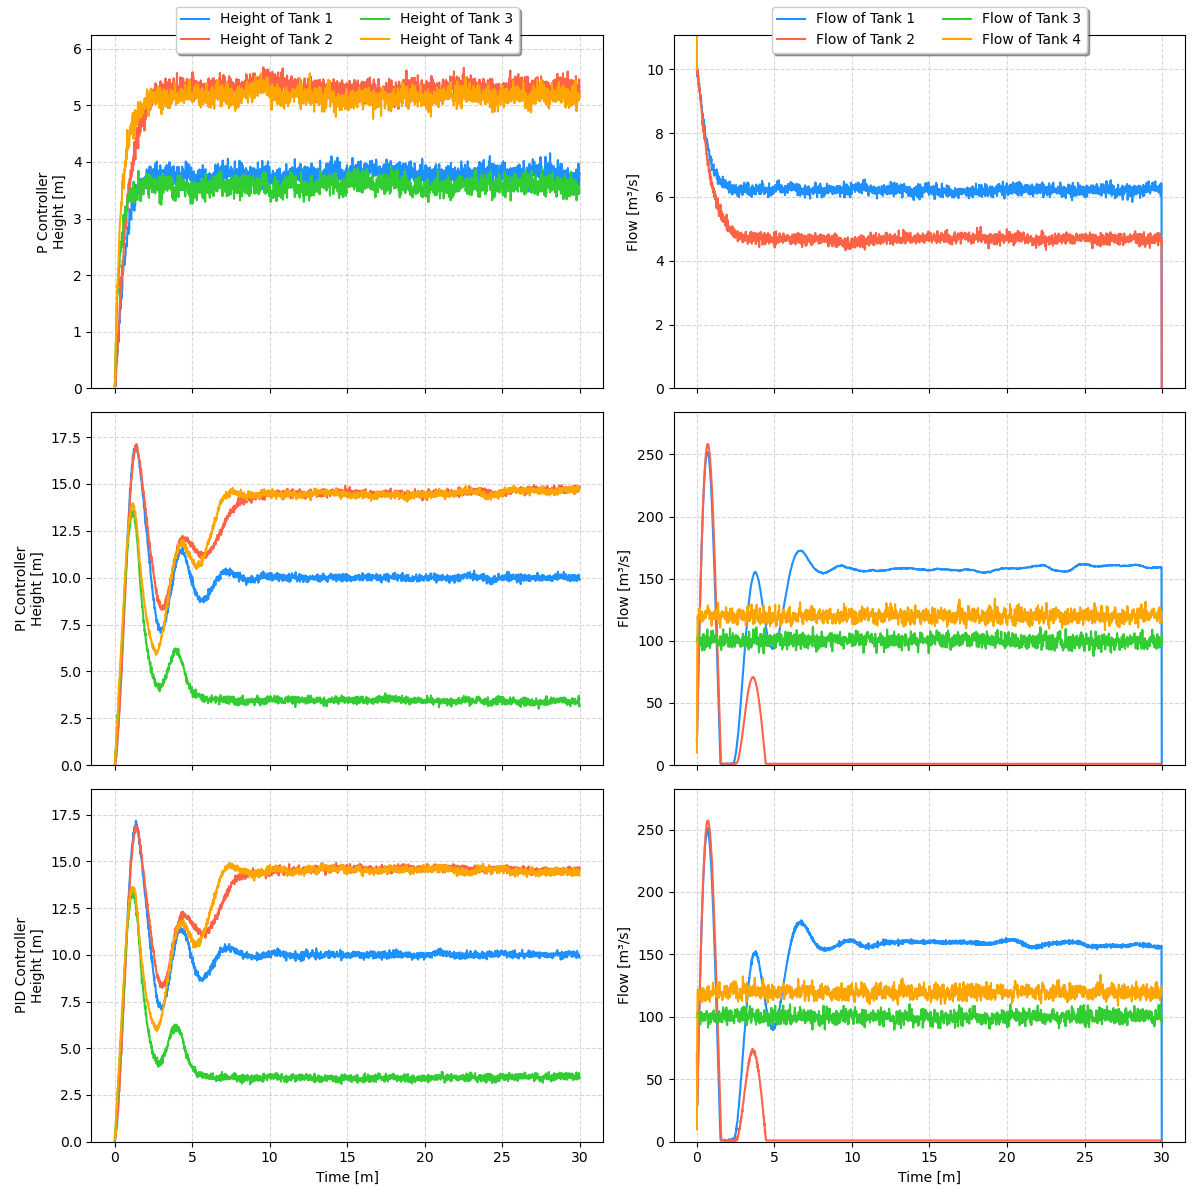
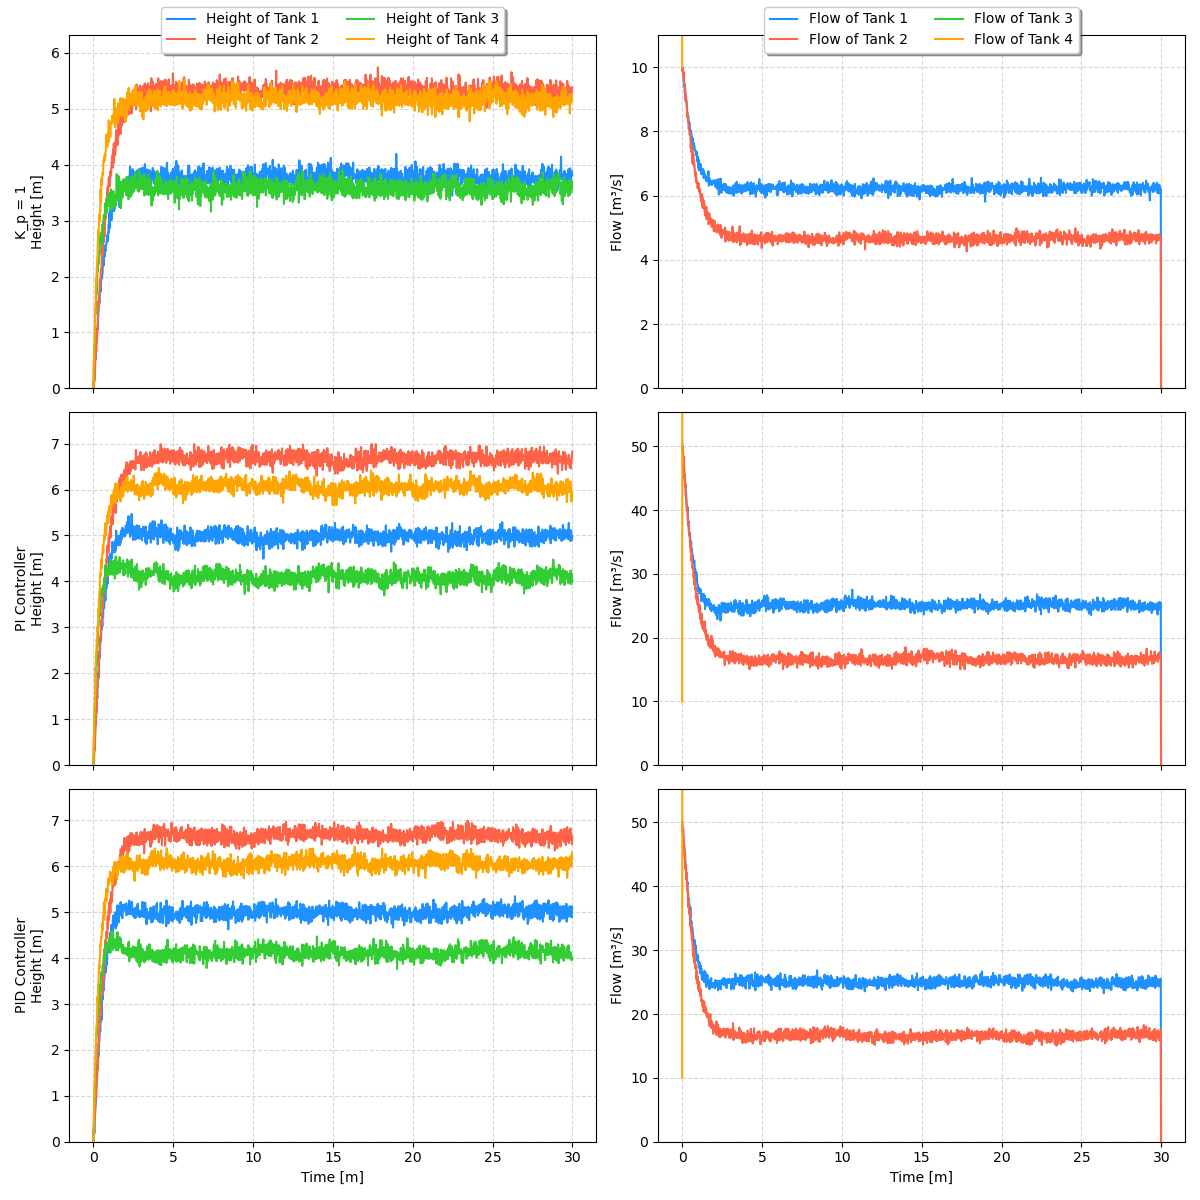
PID

diff --git a/Problem_3.py b/Problem_3.py
@@ -1,4 +1,5 @@
 
+from traceback import print_tb
 import numpy as np
 import params.parameters_tank as para
 import matplotlib.pyplot as plt
@@ -24,9 +25,6 @@ a1, a2, a3, a4, A1, A2, A3, A4, gamma1, gamma2, g, rho = p
 delta_t = 1
 
 # Define distrubances
-Kp = 1
-Ki = 1
-Kd = 5
 goal = np.array([10.0, 10.0])  # Height of Tank 1 and 2
 u0 = np.array([F1, F2])
 Rvv = np.eye(4)*0.01
@@ -43,7 +41,8 @@ state_0 = np.concatenate([x0, d])
 
 
 setpoint = goal
-controller_p = pid.PIDController(Kp, 0, 0, setpoint, delta_t, umin, umax)
+
+controller_p = pid.PIDController(1, 0, 0, setpoint, delta_t, umin, umax)
 
 t, x, u, d, h = Model.ClosedLoop((t0, tf), state_0, controller_p)
 
@@ -60,13 +59,13 @@ for i in range(4):
 
 axes[0, 0].set_ylim(0, np.max(h)*1.1)
 axes[0, 1].set_ylim(0, np.max(u)*1.1)
-axes[0, 0].set_ylabel('P Controller\nHeight [m]')
+axes[0, 0].set_ylabel('K_p = 1\nHeight [m]')
 axes[0, 1].set_ylabel('Flow [m³/s]')
 axes[0, 0].grid(True, linestyle='--', alpha=0.5)
 axes[0, 1].grid(True, linestyle='--', alpha=0.5)
 
 
-controller_pi = pid.PIDController(Kp, Ki, 0, setpoint, delta_t, umin, umax)
+controller_pi = pid.PIDController(5, 0, 0, setpoint, delta_t, umin, umax)
 
 t, x, u, d, h = Model.ClosedLoop((t0, tf), state_0, controller_pi)
 
@@ -84,7 +83,7 @@ axes[1, 1].set_ylabel('Flow [m³/s]')
 axes[1, 0].grid(True, linestyle='--', alpha=0.5)
 axes[1, 1].grid(True, linestyle='--', alpha=0.5)
 
-controller_pid = pid.PIDController(Kp, Ki, Kd, setpoint, delta_t, umin, umax)
+controller_pid = pid.PIDController(5, 0, 0, setpoint, delta_t, umin, umax)
 
 t, x, u, d, h = Model.ClosedLoop((t0, tf), state_0, controller_pid)
 

diff --git a/src/FourTankSystem.py b/src/FourTankSystem.py
@@ -111,10 +111,14 @@ class FourTankSystem:
         self.CheckInputDimension(states, d)
 
         state_0, is_deterministic = self.SetLoopStates(states, d)
-        
-        def f_steady(states, u):
-            return self.StateEquation(0, states, u)
-        steady_state = fsolve(f_steady, state_0, args=(u))
+        if callable(u):
+            def f_steady(states):
+                ut = u(states)
+                return self.StateEquation(0, states, ut)
+        else:
+            def f_steady(states):   
+                return self.StateEquation(0, states, u)
+        steady_state = fsolve(f_steady, state_0)
         return steady_state[:4]
 
     def OpenLoop(self, tspan, states, u, d = np.array([])):
